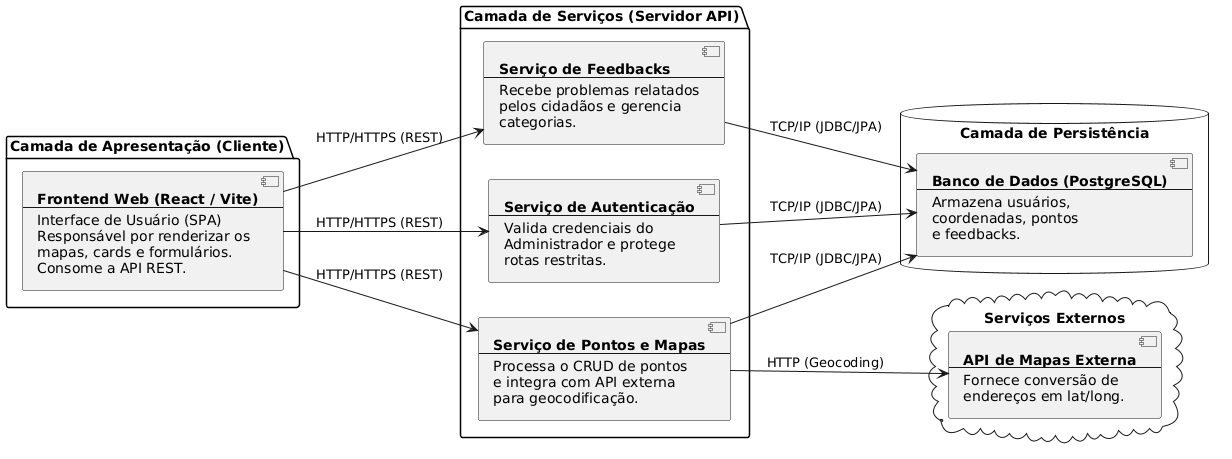
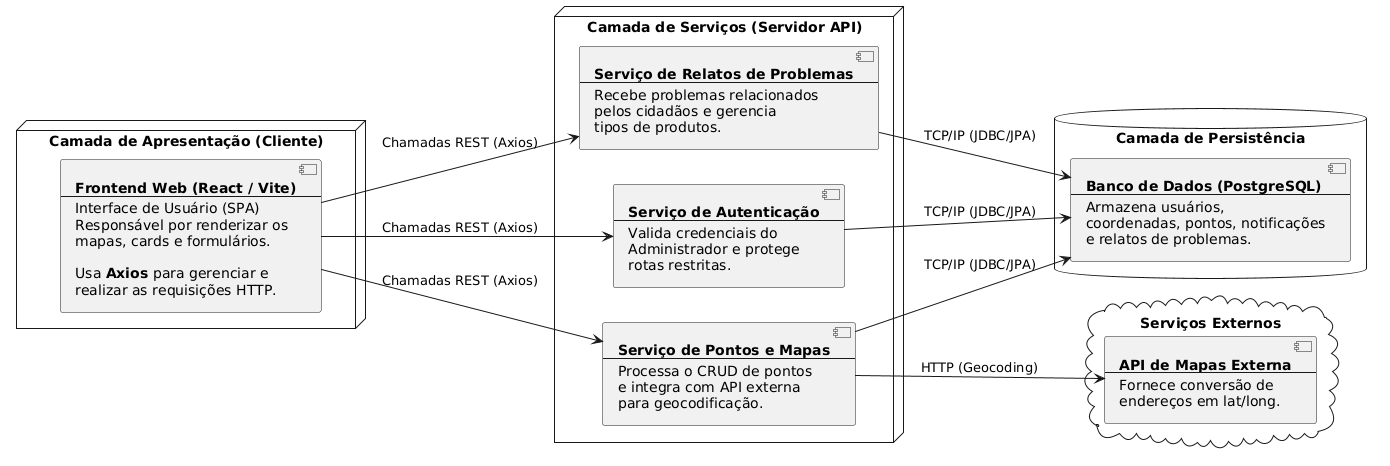
fix: Resolvendo pequenas inconsistências na documentação

Changed region(s): [[0.0, 0.0, 0.987, 0.976], [0.4318, 0.61, 0.6169, 0.6405], [0.3084, 0.6405, 0.3393, 0.671]]

diff --git a/docs/testes/plano-de-testes.md b/docs/testes/plano-de-testes.md
@@ -1,59 +1,82 @@
-# **Plano de Testes de Software e Homologação Funcional \- V2**
+# **Plano de Testes de Software e Homologação Funcional \- V3**
 
-**Documentação Estratégica da Sprint 7 — MVP Descarte de Lixo Eletrônico Lavras**  
+**Documentação Estratégica de Garantia de Qualidade — MVP Descarte de Lixo Eletrônico**
+
 **Equipe de Desenvolvimento e Qualidade:** Augusto Fernandes Carvalho, Diovani da Cruz Mangia Maciel Junior, Ezequiel Dominguez Santos, Leonardo Carvalho Silva, Rafael Silva Martins
 
-## **1\. Introdução e Alinhamento Teórico (Base: Princípios de Testes de Software)**
+## **1\. Introdução e Alinhamento Teórico**
 
-Este documento estabelece a versão revisada e simplificada do Plano Estratégico de Testes e Garantia de Qualidade para a aplicação web de descarte de lixo eletrônico. O modelo técnico baseia-se nas diretrizes do Capítulo 8 da literatura de Engenharia de Software Moderna (Valente, 2020), estruturando-se através de uma **Pirâmide de Testes** otimizada para a capacidade operacional atual da equipe.  
-A fim de otimizar o tempo de entrega e mitigar burocracias de recrutamento externo, a validação foi concentrada 100% dentro do ambiente interno do time de desenvolvimento, eliminando protocolos demográficos e testes empíricos de usabilidade de IHC. A pirâmide de qualidade foi redefinida em três frentes:
+Este documento estabelece a estratégia formal de Testes e Garantia de Qualidade para a aplicação web de descarte de lixo eletrônico. O modelo técnico baseia-se nas diretrizes do Capítulo 8 da literatura de Engenharia de Software Moderna (Valente, 2020), estruturando-se através de uma **Pirâmide de Testes** focada em eficiência e cobertura lógica completa.
 
-* **Base da Pirâmide — Testes de Unidade (Unit Tests):** Validação isolada de lógicas de negócio no Backend com o framework JUnit e objetos Mock (Mockito).  
-* **Camada Intermediária — Testes de Integração e Contrato de APIs:** Verificação da conectividade com o banco PostgreSQL real através do uso de **Testcontainers (Docker)** e integridade de endpoints via API Cat.  
-* **Topo da Pirâmide — Testes de Sistema Funcionais (Caixa-Preta):** Homologação manual de ponta a ponta na interface em React por meio da metodologia de **Revisão por Pares (Peer Review)**, executando cenários baseados nos requisitos do MVP.
+A validação foi concentrada de forma interna através de testes dinâmicos automatizados no backend e homologação funcional cruzada na interface do cliente, distribuída em três níveis de granularidade:
 
-## **2\. Estratégia de Testes do Backend (Automatizados e Conteinerizados)**
+* **Base da Pirâmide — Testes de Unidade (Unit Tests):** Validação isolada de lógicas de negócio e restrições sintáticas com JUnit e objetos Mock.  
+* **Camada Intermediária — Componentes e Integração de APIs:** Verificação do comportamento das rotas HTTP, validação de contratos estruturais de payloads e persistência em banco PostgreSQL conteinerizado via Docker.  
+* **Topo da Pirâmide — Testes de Sistema Funcionais (Caixa-Preta):** Homologação manual de ponta a ponta guiada por roteiros operacionais executados na interface em React.
+
+## **2\. Estratégia de Testes do Backend (Automatizados e Dinâmicos)**
 
 ### **2.1. Testes de Unidade com JUnit e Mocks**
 
-Os testes unitários focam estritamente na camada de serviços (@Service). Utiliza-se o Mockito para isolar a camada de persistência, simulando retornos ideais e caminhos de exceção sem realizar escritas no banco de dados, garantindo testes rápidos e independentes.
+Os testes unitários focam de forma isolada nas lógicas de processamento interno da aplicação.
 
-### **2.2. Testes de Integração Conteinerizados (Testcontainers \+ PostgreSQL)**
+* **Ferramentas:** JUnit 5 e Mockito.  
+* **Escopo Técnico:** Validação das regras da camada @Service e integridade das regras das entidades de domínio, como a classe UsuarioTest.  
+* **Abordagem:** Uso de objetos simulados (Mocks) para isolar a persistência, garantindo a validação de caminhos lógicos de sucesso e exceções.
 
-Para validar com fidelidade absoluta o comportamento dos repositórios (JpaRepository) e mapeadores de entidades (Hibernate), os testes de integração do backend levantarão de forma temporária e automatizada um container Docker do PostgreSQL real via biblioteca **Testcontainers**. Essa abordagem valida se os scripts incrementais de migração do Flyway executam sem quebras, e se os relacionamentos complexos N:N de pontos de coleta e categorias persistem de forma íntegra na base de dados lógicos.
+### **2.2. Testes de Componente (Controladores HTTP)**
 
-### **2.3. Validação de Contrato de APIs com API Cat**
+Validam se o comportamento do servidor de API responde corretamente sob o protocolo de comunicação de rede.
 
-Os controladores REST (@RestController) passam por testes funcionais de caixa-preta via ferramenta API Cat. O objetivo é conferir a conformidade dos payloads JSON e a barreira de segurança imposta pelos filtros do Spring Security (validação do token JWT, testando o bloqueio de requisições malformadas ou não autenticadas).
+* **Ferramentas:** MockMvc integrado ao Spring Test.  
+* **Escopo Técnico:** Interceptação da camada @RestController, cobrindo classes de controle como ExemploControllerTest e NotificacaoControllerTest.  
+* **Abordagem:** Garantir o correto disparo dos códigos de status HTTP (200, 201, 400\) e a captura centralizada de erros pelo manipulador global de exceções.
 
-## **3\. Estratégia de Testes de Sistema e Interface (Caixa-Preta por Revisão por Pares)**
+### **2.3. Testes de Integração de API (Conteinerizados)**
 
-Substituindo o protocolo pesado de usabilidade externa, o topo da pirâmide adota os **Testes Alfa Funcionais**. A validação do front-end em React é distribuída entre os próprios membros da equipe técnica seguindo a lógica cruzada: quem implementou uma funcionalidade não pode homologá-la. Esse método garante que defeitos de layout, falhas de integração com Axios e caminhos alternativos sejam capturados antes da entrega final ao professor.
+Verificam o acoplamento do código-fonte com os mecanismos reais de persistência e segurança.
+
+* **Ferramentas:** RestAssured, Spring Boot DataJpaTest, scripts de migração Flyway e Testcontainers.  
+* **Escopo Técnico:** Fluxos complexos de escrita e barreiras de segurança, com foco nas classes AuthIntegrationTest e RelatoProblemaIntegrationTest.  
+* **Abordagem:** O Testcontainers levanta uma instância isolada e real do PostgreSQL em um container Docker. A biblioteca RestAssured simula requisições caixa-preta de ponta a ponta, avaliando as travas de token JWT e a gravação relacional de tabelas como ponto\_coleta e relato\_problema.
+
+## **3\. Estratégia de Testes de Sistema e Interface**
+
+### **3.1. Validação de Contrato via API Cat / Postman**
+
+* **Abordagem:** Teste Funcional Caixa-Preta no Nível de Sistema.  
+* **Execução:** Submissão de chamadas manuais contra os endpoints locais do servidor em modo *stateless*. Avalia-se a resposta da API variando dados lógicos de entrada, conferindo a geração de tokens e o bloqueio de requisições sem credenciais.
+
+### **3.2. Homologação da Interface (SPA em React)**
+
+* **Abordagem:** Teste Alfa Funcional por Revisão de Pares Cruzada (*Peer Review*).  
+* **Execução:** Os componentes de visualização integrados (Axios client) são distribuídos entre os membros da equipe técnica. O desenvolvedor encarregado de codificar uma funcionalidade não pode ser o mesmo que executa seu roteiro de homologação.
 
 ## **4\. Roteiro de Cenários e Checklist de Homologação Interna**
 
-O time executará manualmente a interface integrada para preencher o seguinte checklist binário (**Passou / Falhou**), acompanhado de evidências visuais (prints das telas):
+O time executará de forma integrada os seguintes fluxos operacionais para preenchimento de conformidade de critérios de aceitação:
 
-| Cenário ID | Fluxo de Ação Técnica Executado | Resultado Esperado (Critério de Aceite) | Avaliador Par   |
+| Cenário ID | Fluxo de Ação Técnico Executado | Resultado Esperado (Critério de Aceite) | Avaliador Par |
 | :---- | :---- | :---- | :---- |
-| **Cenário 1** | Acessar a tela inicial pública e utilizar os controles interativos do mapa (Leaflet) e a listagem responsiva para localizar ecopontos na cidade de Lavras. | Os "pins" devem aparecer renderizados nas posições geográficas exatas vindas da API pública do banco de dados. | (Augusto / Ezequiel) |
-| **Cenário 2** | Interagir com um marcador específico de ecoponto no mapa e, no modal de detalhes expandido, preencher o formulário público com um aviso de "Coletor Lotado". | O feedback deve ser enviado sem necessidade de login, disparando mensagem de sucesso visual na tela. | (Rafael / Leonardo) |
-| **Cenário 3** | Acessar a rota protegida do Admin (/admin), forçar login informando credenciais válidas e submeter o cadastro completo de um novo ecoponto associado a múltiplas categorias. | O Spring Security deve validar o token JWT e salvar o novo ponto no PostgreSQL, atualizando o dashboard imediatamente. | Equipe Frontend (Augusto / Rafael) |
-| **Cenário 4** | Navegar pelo painel de monitoramento administrativo do Dashboard e executar a alteração de status do feedback recebido no Cenário 2 de "Pendente" para "Resolvido". | A API de moderação (PUT/PATCH) deve atualizar a base relacional de dados e emitir um toast de sucesso. | Scrum Master (Diovani) |
+| **Cenário 1** | Acessar a tela inicial pública e interagir com o mapa Leaflet e a listagem responsiva para localizar pontos de coleta em Lavras/MG. | Os marcadores geográficos devem aparecer plotados nas posições exatas obtidas a partir dos dados retornados da API pública (GET). | (Augusto / Ezequiel) |
+| **Cenário 2** | Selecionar um ponto de coleta específico no mapa, abrir o modal de detalhes e submeter um aviso de "Coletor Lotado" fornecendo nome e e-mail. | O sistema deve validar a identificação obrigatória do cidadão, aceitar o payload e emitir um alerta visual de sucesso na UI. | (Rafael / Leonardo) |
+| **Cenário 3** | Acessar a rota /admin, efetuar login com credenciais válidas e submeter o formulário de um novo ponto de coleta associado a múltiplos tipos de produtos. | O sistema deve armazenar o token JWT localmente, validar as permissões de acesso, gravar o ponto no PostgreSQL e renderizá-lo de imediato no dashboard. | Equipe Frontend (Augusto / Rafael) |
+| **Cenário 4** | Navegar pelo painel de monitoramento do painel administrativo e alterar o status do relato recebido no Cenário 2 de "Pendente" para "Resolvido". | A API deve processar a atualização de status do relato de problema, disparar a respectiva notificação e remover o alerta do painel principal. | Scrum Master (Diovani) |
 
-## **5\. Matriz de Rastreabilidade Simplificada Atualizada (Requisitos vs. Suítes)**
+## **5\. Matriz de Rastreabilidade Estratégica (Requisitos vs. Suítes)**
 
-Esta tabela mapeia de ponta a ponta as Histórias de Usuário originais do MVP em relação a todas as camadas de cobertura de testes técnicos configuradas internamente pelo time:
+Esta matriz demonstra o mapeamento completo e a amarração de cobertura de qualidade entre as User Stories de negócio e as suítes técnicas executadas:
 
-| História de Usuário (ID) | Teste Unitário (JUnit) | Teste de API / Integração | Teste de Sistema (Caixa-Preta Interno)   |
+| História de Usuário (ID) | Teste Unitário (JUnit) | Teste de API / Integração | Teste de Sistema (Interface e API Cat) |
 | :---- | :---- | :---- | :---- |
-| **US01:** Autenticação e Segurança de Admin | Verificar hashing BCrypt de credenciais. | Testar validação do JWT em filtros HTTP via API Cat. | Fluxo de login obrigatório para acesso aos Cenários 3 e 4\. |
-| **US02:** Gestão de Pontos de Coleta | Validar lógica de persistência com mocks de Repositories. | Testar persistência no banco PostgreSQL real com Testcontainers. | **Cenário 3:** Cadastro completo de novo ponto via painel admin. |
-| **US03:** Visualização de Pontos | Validar conversão de objetos para DTOs. | Verificar payload de resposta leve na rota pública GET /api/pontos. | **Cenário 1:** Renderização espacial de ecopontos e leitura de cards. |
-| **US04:** Detalhes e Geolocalização | Testar cálculo matemático de distância (Haversine). | Validar injeção de dados de endereço estruturados no JSON público. | **Cenário 1:** Abertura do modal expansível contendo as informações lógicas do local. |
-| **US05:** Gestão Administrativa de Ocorrências | Validar fluxo lógico de alteração de status na camada Service. | Testar chamadas restritas com JWT em rota PUT /api/feedbacks/{id} | **Cenário 4:** Triagem e moderação manual de alertas no Dashboard. |
-| **US06:** Registro Público de Feedback | Validar restrições de validação do DTO de entrada. | Disparos funcionais abertos no endpoint público POST /api/feedbacks. | **Cenário 2:** Submissão de alerta de manutenção na visão do cidadão. |
+| **US01:** Autenticação e Segurança de Admin | Verificar hashing BCrypt de armazenamento de credenciais. | Testar filtros de segurança e validação sintática do token JWT. | Fluxo de login obrigatório para acesso aos Cenários operacionais 3 e 4\. |
+| **US02:** Gestão de Pontos de Coleta | Validar a lógica de persistência e validações isolando repositórios com mocks. | Testar o ciclo completo do CRUD na base PostgreSQL real via Testcontainers. | **Cenário 3:** Inserção e gravação em tempo real de um novo ponto no dashboard. |
+| **US03:** Visualização de Pontos | Validar o mapeamento estrutural de entidades de domínio para DTOs públicos. | Verificar o tempo de resposta e payload leve na rota pública GET /api/pontos. | **Cenário 1:** Renderização espacial e leitura dos cartões responsivos na tela inicial. |
+| **US04:** Detalhes e Geolocalização | Testar algoritmo matemático da Fórmula de Haversine para cálculo de distâncias. | Validar formatação e injeção correta de dados geográficos estruturados no JSON público. | **Cenário 1:** Abertura do modal expansível contendo dados de funcionamento e restrições. |
+| **US05:** Gestão de Tipos de Produtos e Relatos de Problemas | Validar fluxo de alteração de status e acionamento lógico da notificação na camada Service. | Testar chamadas restritas com JWT no endpoint /api/relatos-problemas/{id} e trigger de notificações. | **Cenário 4:** Triagem, leitura de notificações administrativas e moderação de alertas no Dashboard. |
+| **US06:** Registro de Relato de Problema de Campo | Validar travas sintáticas e obrigatoriedade de campos (nome/email preenchidos) no DTO. | Executar disparos lógicos no endpoint público de submissão de relatos de problemas. | **Cenário 2:** Preenchimento identificado e envio do formulário de ocorrência na visão do cidadão. |
 
 ## **6\. Gestão de Defeitos e Critérios de Aceite**
 
-Qualquer comportamento adverso ou inconsistência encontrada pelos avaliadores internos durante a execução das suítes de testes (seja quebra de contrato JSON no API Cat, falhas de persistência no Testcontainers ou erros visuais no React) não será ignorado. O Scrum Master registrará imediatamente o defeito gerando um card etiquetado como **"Bug/Defeito"** no Kanban do GitHub Projects, bloqueando o merge da funcionalidade até que a equipe realize a correção.
+Qualquer comportamento inesperado detectado nas execuções (quebra de contratos JSON no API Cat, falhas de constraints no Testcontainers ou erros na renderização do React) será tratado como falha impeditiva. O Scrum Master abrirá uma issue com a tag **"Bug/Defeito"** no Kanban do GitHub Projects, blocking o merge da funcionalidade até que a correção seja efetuada e validada novamente pelas suítes automatizadas.
+

diff --git a/docs/backlog-produto.md b/docs/backlog-produto.md
@@ -17,8 +17,8 @@ Este documento apresenta o Product Backlog do projeto de desenvolvimento de uma 
 | US02 | Gestão de Pontos de Coleta (CRUD) | Alta | 8 | Pendente |
 | US03 | Visualização de Pontos (Mapa e Cards) | Alta | 8 | Pendente |
 | US04 | Detalhamento e Geolocalização do Usuário | Média | 5 | Pendente |
-| US05 | Gestão de Categorias e Feedbacks (Admin) | Média | 8 | Pendente |
-| US06 | Registro de Feedback de Campo (Cidadão) | Baixa | 3 | Pendente |
+| US05 | Gestão de Tipos de Produtos e Relatos de Problemas (Admin) | Média | 8 | Pendente |
+| US06 | Registro de Relato de Problema de Campo (Cidadão) | Baixa | 3 | Pendente |
 
 ---
 
@@ -39,7 +39,7 @@ Como Administrador do sistema de descarte de lixo eletrônico, eu quero realizar
 **Tarefas Técnicas (Sub-tasks):**
 * [TASK] Modelagem da entidade Usuário e persistência de credenciais no banco de dados. #7
 * [TASK] Configuração da lógica de segurança e filtros de autenticação (Backend). #8
-* [TASK] Desenvolvimento da interface web para o formulário de login e feedbacks de erro (Frontend). #9
+* [TASK] Desenvolvimento da interface web para o formulário de login e alertas de erro (Frontend). #9
 
 ---
 
@@ -98,36 +98,37 @@ Como Cidadão em deslocamento, eu quero ver minha localização no mapa e a dist
 
 ---
 
-### [US05] Gestão de Categorias e Feedbacks (Admin)
+### [US05] Gestão de Tipos de Produtos e Relatos de Problemas (Admin)
 **Descrição:**
-Como Administrador do sistema, eu quero gerenciar as categorias de materiais e moderar os feedbacks enviados pelos usuários para que o sistema se mantenha organizado e os problemas relatados sejam resolvidos.
+Como Administrador do sistema, eu quero gerenciar os tipos de produtos de lixo eletrônico e moderar os relatos de problemas enviados pelos usuários para que o sistema se mantenha organizado e os problemas relatados sejam resolvidos.
 
 **Critérios de Aceitação (Definition of Done):**
-* O administrador deve poder criar, editar e excluir categorias de lixo (ex: Pilhas, Monitores).
-* O sistema deve permitir listar todos os feedbacks enviados pelos cidadãos, ordenados por data.
-* Cada feedback deve estar vinculado a um ponto de coleta específico.
-* O administrador deve poder marcar um feedback como "Resolvido".
-* As categorias cadastradas devem estar disponíveis para seleção no momento da criação de um ponto de coleta.
+* O administrador deve poder criar, editar e excluir os tipos de produto de lixo eletrônico (ex: Pilhas, Monitores).
+* O sistema deve permitir listar todos os relatos de problemas enviados pelos cidadãos, ordenados por data.
+* Cada relato de problema deve estar vinculado a um ponto de coleta específico.
+* O administrador deve poder marcar um relato de problema como "Resolvido".
+* Os tipos de produtos de lixo eletrônico cadastrados devem estar disponíveis para seleção no momento da criação de um ponto de coleta.
 
 **Tarefas Técnicas (Sub-tasks):**
-* [TASK] CRUD de Categorias (Entidade, Controller e Interface Admin). #27
-* [TASK] Implementação da lógica de listagem e moderação de Feedbacks (Update status). #28
-* [TASK] Ajuste no formulário de pontos para vincular as categorias existentes (Relacionamento N:N). #29
+* [TASK] CRUD de tipos de produtos de lixo eletrônico (Entidade, Controller e Interface Admin). #27
+* [TASK] Implementação da lógica de listagem e moderação de relatos de problemas (Update status). #28
+* [TASK] Ajuste no formulário de pontos para vincular os tipos de produtos existentes (Relacionamento N:N). #29
+* [TASK] Implementação de trigger/serviço para geração automática de Notificação ao salvar um Relato de Problema. #68
 
 ---
 
-### [US06] Registro de Feedback de Campo (Cidadão)
+### [US06] Registro de Relato de Problema de Campo (Cidadão)
 **Descrição:**
-Como Cidadão utilizando um ponto de coleta, eu quero relatar um problema (ex: lixeira cheia) sobre um ponto específico para que a administração seja notificada e realize a manutenção necessária.
+Como Cidadão utilizando um ponto de coleta, eu quero enviar um relato de problema (ex: lixeira cheia) sobre um ponto específico para que a administração seja notificada e realize a manutenção necessária.
 
 **Critérios de Aceitação (Definition of Done):**
-* O sistema deve disponibilizar um formulário de feedback acessível na tela de detalhes do ponto.
+* O sistema deve disponibilizar um formulário de relato de problema acessível na tela de detalhes do ponto.
 * O usuário deve selecionar o tipo de problema via lista pré-definida (ENUM).
 * O sistema deve permitir o envio de um comentário opcional.
 * Deve haver uma mensagem de confirmação após o envio bem-sucedido.
-* Não deve ser necessário login para realizar o envio de feedback.
+* O sistema deve validar se os campos de nome e e-mail foram preenchidos antes de permitir o envio do relato.
 
 **Tarefas Técnicas (Sub-tasks):**
-* [TASK] Criação do formulário de feedback (Frontend). #30
-* [TASK] Criação do endpoint público de POST para recebimento de feedbacks. #31
+* [TASK] Criação do formulário de relato de problema (Frontend). #30
+* [TASK] Criação do endpoint público de POST para recebimento de relato de problemas. #31
 * [TASK] Implementação de validações básicas (anti-spam simples ou campos obrigatórios). #32

diff --git a/docs/requisitos.md b/docs/requisitos.md
@@ -6,11 +6,12 @@
 - **RF02 – Visualização Geográfica:** O sistema deve exibir os pontos de coleta em um mapa interativo.
 - **RF03 – Visualização em Lista:** O sistema deve exibir os pontos de coleta em formato de cards.
 - **RF04 – Detalhamento de Ponto:** O sistema deve exibir informações detalhadas (horários, materiais aceitos, restrições) ao selecionar um ponto.
-- **RF05 – Gestão de Categorias:** O sistema deve permitir ao administrador gerenciar as categorias de materiais (Pilhas, Baterias, TV, etc.).
-- **RF06 – Registro de Feedback:** O sistema deve permitir que usuários anônimos enviem relatos sobre o status de um ponto (ex: cheio, não encontrado).
-- **RF07 – Controle de Feedbacks:** O sistema deve permitir ao administrador listar e marcar feedbacks como "Resolvidos".
+- **RF05 – Gestão de Tipos de Produtos:** O sistema deve permitir ao administrador gerenciar os tipos de produtos/materiais aceitos (Pilhas, Baterias, TV, etc.).
+- **RF06 – Registro de Relatos de Problema:** O sistema deve permitir que usuários cidadãos informem nome, e-mail e enviem relatos do estado das lixeiras (ex: cheio, não encontrado).
+- **RF07 – Controle de Relatos de Problema:** O sistema deve permitir ao administrador listar e marcar relatos de problemas como "Resolvidos".
 - **RF08 – Autenticação:** O sistema deve autenticar administradores para acesso às áreas restritas.
 - **RF09 – Localização do Usuário:** O sistema deve identificar a posição atual do usuário (latitude/longitude) para plotá-la no mapa e calcular a distância até os pontos de coleta.
+- **RF10 – Notificação de Ocorrências (Admin):** O sistema deve gerar e exibir uma notificação interna no painel administrativo sempre que um novo relato de problema for enviado por um cidadão, permitindo que o administrador identifique instantaneamente quais pontos de coleta necessitam de atenção ou manutenção.
 
 ## 2. Requisitos Não Funcionais (RNF)
 
@@ -20,19 +21,20 @@
 - **RNF04 – Persistência:** Uso de banco de dados relacional PostgreSQL.
 - **RNF05 – Performance do Mapa:** O carregamento dos pontos e da posição do usuário deve ser assíncrono para evitar o bloqueio da interface.
 - **RNF06 – Precisão da Distância:** O cálculo de distância entre o usuário e os pontos deve utilizar a Fórmula de Haversine para garantir precisão em linha reta (esférica).
-- **RNF07 – Privacidade (LGPD):** O sistema deve solicitar permissão explícita do navegador para acessar os dados de geolocalização do usuário.
+- **RNF07 – Privacidade (LGPD):** O sistema deve solicitar permissão explícita do navegador para acessar os dados de geolocalização do usuário. A coleta de nome e e-mail serve unicamente para o controle interno de relatos e contato dos administradores, garantindo a transparência com o usuário.
 - **RNF08 – Disponibilidade Offline do Mapa:** O sistema deve exibir uma mensagem amigável ou estado de erro caso as APIs de mapa não possam ser carregadas.
 
 ## 3. Matriz de Rastreabilidade (Requisitos vs. User Stories)
 
 | ID | Requisito Funcional (RF) | User Story (US) Relacionada |
 | :--- | :--- | :--- |
-| **RF01** | Gestão de Pontos (CRUD) | [US02] Gestão de Pontos de Coleta |
-| **RF02** | Visualização Geográfica (Mapa) | [US03] Visualização de Pontos (Mapa e Cards) |
-| **RF03** | Visualização em Lista (Cards) | [US03] Visualização de Pontos (Mapa e Cards) |
-| **RF04** | Detalhamento de Ponto | [US04] Detalhamento e Geolocalização |
-| **RF05** | Gestão de Categorias | [US05] Gestão de Categorias e Feedbacks |
-| **RF06** | Registro de Feedback (Cidadão) | [US06] Registro de Feedback de Campo |
-| **RF07** | Controle de Feedbacks (Admin) | [US05] Gestão de Categorias e Feedbacks |
-| **RF08** | Autenticação (Admin) | [US01] Autenticação e Segurança |
-| **RF09** | Localização do Usuário (Distância) | [US04] Detalhamento e Geolocalização |
+| **RF01** | Gestão de Pontos (CRUD) | [US02] |
+| **RF02** | Visualização Geográfica (Mapa) | [US03] |
+| **RF03** | Visualização em Lista (Cards) | [US03] |
+| **RF04** | Detalhamento de Ponto | [US04] |
+| **RF05** | Gestão de Tipos de Produtos | [US05] |
+| **RF06** | Registro de Relatos de Problema (Cidadão) | [US06] |
+| **RF07** | Controle de Relatos de Problema (Admin) | [US05] |
+| **RF08** | Autenticação (Admin) | [US01] |
+| **RF09** | Localização do Usuário (Distância) | [US04] |
+| **RF10** | Notificação de Ocorrências (Admin) | [US05] |

diff --git a/docs/sprints/sprint-06.md b/docs/sprints/sprint-06.md
@@ -23,9 +23,10 @@ O objetivo central desta sprint foi estabelecer o alicerce de alto nível e a fo
 | \#21 | \[TASK\] Configuração do mapa base e renderização de markers dinâmicos | Média | **Concluído** |
 | \#23 | \[TASK\] Integração com o endpoint de listagem pública de pontos | Alta | **Iniciado / Pendente** |
 | \#26 | \[TASK\] Criação da tela/modal de detalhes do ponto de coleta | Alta | **Iniciado / Pendente** |
-| \#28 | \[TASK\] Implementação da lógica de listagem e moderação de Feedbacks | Baixa | **Iniciado / Pendente** |
+| \#28 | \[TASK\] Implementação da lógica de listagem e moderação de Relatos de Problemas | Baixa | **Iniciado / Pendente** |
 | \#32 | \[TASK\] Implementação de validações básicas (anti-spam / campos obrigatórios) | Média | **Iniciado / Pendente** |
 | \[DOC\] | Fechamento e Evidências da Sprint 6 (sprint-06.md) | Alta | **Concluído (Este arquivo)** |
+| \#68 | \[TASK\] Implementação de trigger/serviço para geração automática de Notificação ao salvar um Relato de Problema. | Baixa | **Concluído** |
 
 ## **4\. Relação com o Conteúdo da Disciplina**
 